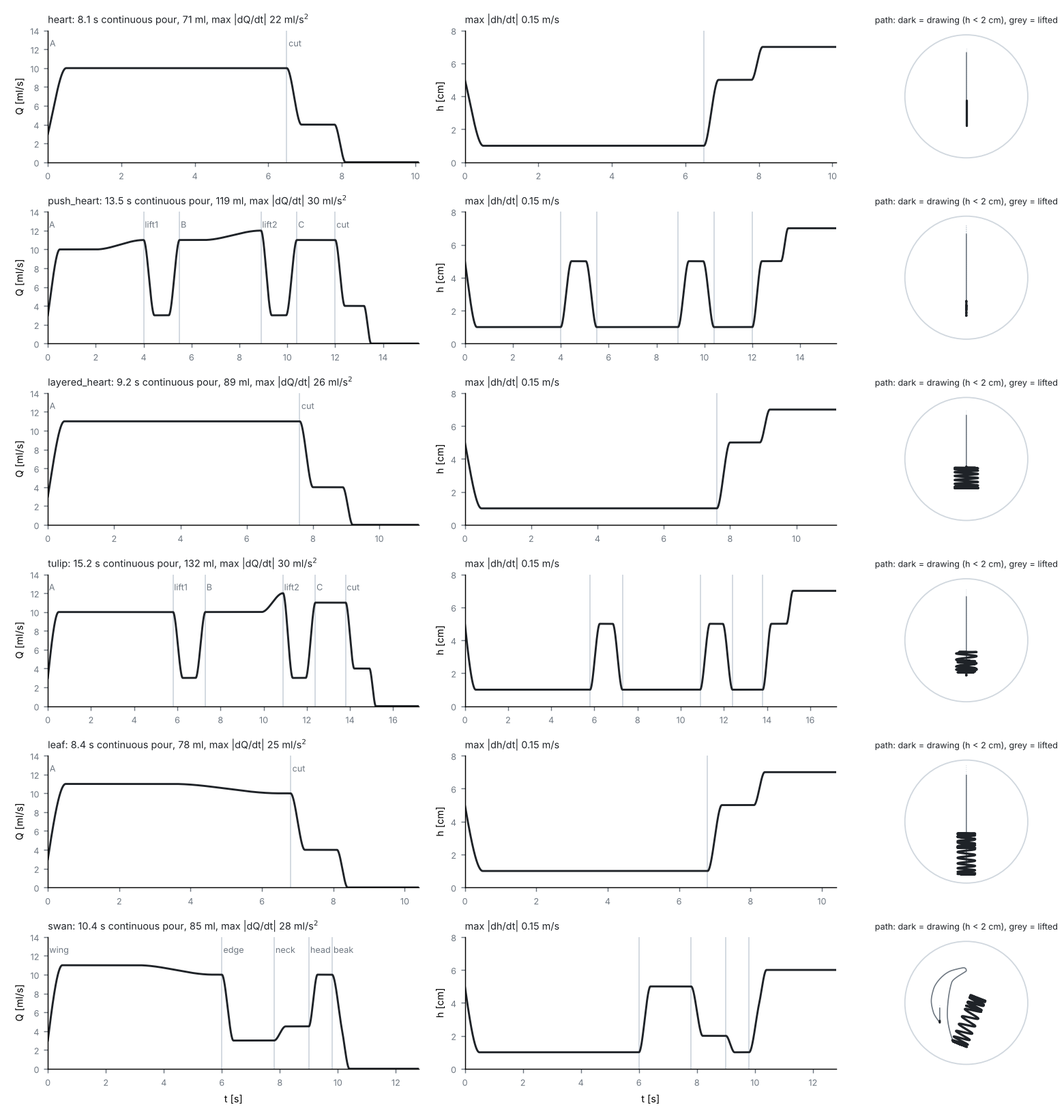
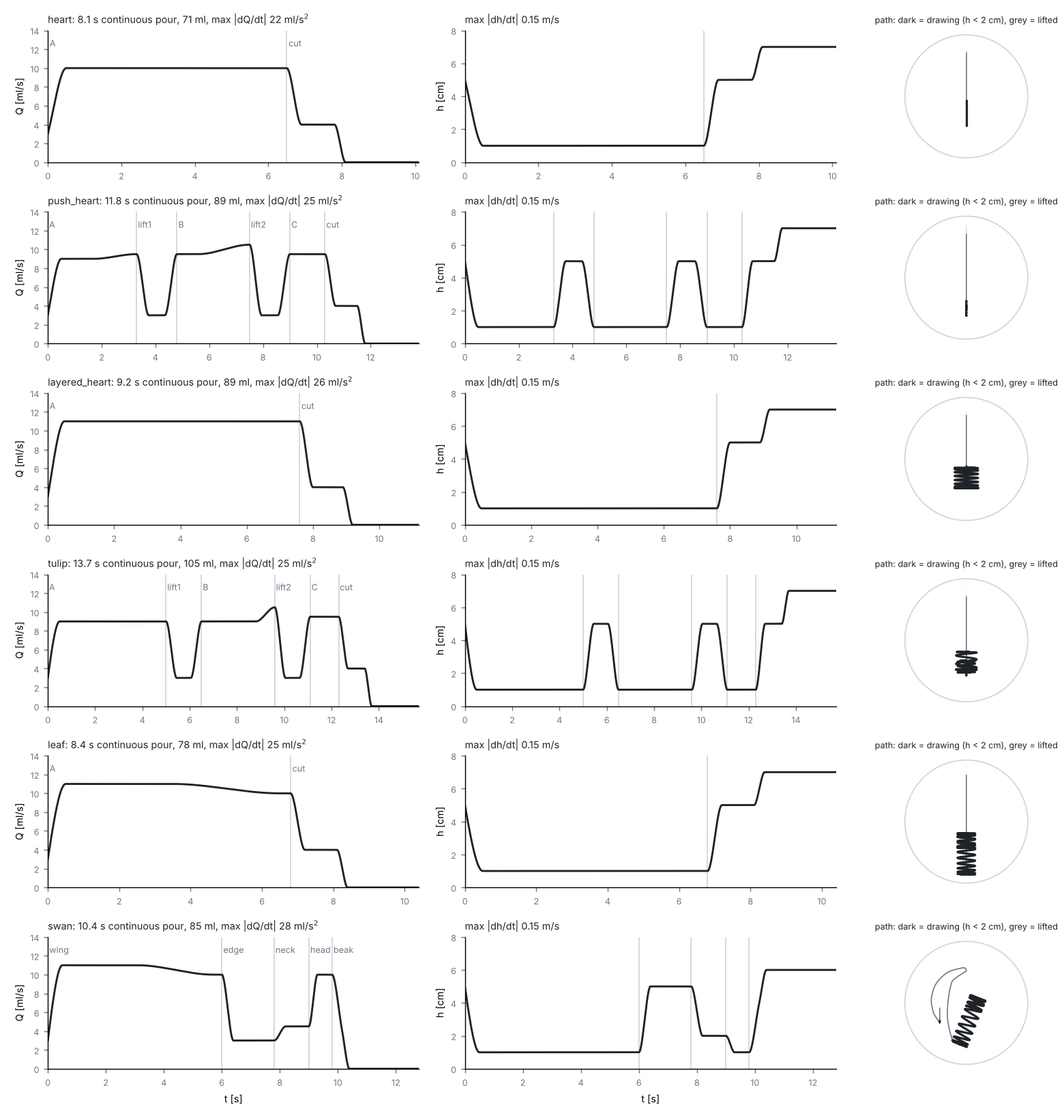
Latte simulator: physics-driven closure revision (exchange off, crater kernels)
Probed at N=96 against the gate metrics and the axis-aligned video
similarity, then adopted:

- Layer-thickness exchange OFF by default (tau_ex 0): with the realistic
  continuous pours the task-book elastic model already reproduces the
  heart video's white-area history (F6), and flattening h destroyed two
  real mechanisms: groove self-healing (the heart's centre line could
  never refill without an h signature -> old G1.7 split in 3) and layer
  persistence (the tulip's first layer was drained 34 % in 5 s -> old
  G6.1a). Switching off also restores G1.2 monotonicity and G5.3. The
  three exchange implementations stay as the F6 counterfactual.
- Impact-zone geometry set the right way round (r0_fac 0.6 -> 1.5,
  sig_d_fac 0.75 -> 0.45, sig_r_fac 2.5 -> 1.2): milk surfaces OUTSIDE
  the jet crater, the bulk upwelling sits AT the crater rim instead of
  11 mm away. Leaf vein 0.0 -> 0.83, stripe forward-convex arcs 0.45 ->
  0.64, heart centre-line share 0.59 -> 0.41, impact-point alpha 0.98 ->
  0.88 (G1.3 still open, documented).
- Tested and rejected, recorded in MODEL.md: foam Bingham yield (kills
  the drawing flows: 0 stripes at 1 Pa) and the floating-layer modulus
  K_s/4 (white area is set by deposited volume, not spreading rate; all
  probe metrics unchanged).
- push_heart / tulip pours trimmed to 89 / 105 ml (video-plausible):
  their white share 0.59/0.63 -> 0.51/0.57 against 0.30/0.37 measured
  on the videos; the remainder is a documented limitation.
[…]

diff --git a/latte/actions/scripts.py b/latte/actions/scripts.py
@@ -317,18 +317,18 @@ def push_heart():
     large flow for a heart (11.5-13 s); small flow lifted to finish (13.5-14.5 s)."""
     p = Pitcher("push_heart", at=(0, -22))
     p.stroke("A")
-    touch_down(p, Q=10.0)
-    p.move(1.5)                                   # first layer at B
-    p.move(2.0, to=(0, -16), Q=11.0)              # keep pouring: the pattern is pushed towards D
+    touch_down(p, Q=9.0)
+    p.move(1.2)                                   # first layer at B
+    p.move(1.6, to=(0, -16), Q=9.5)               # keep pouring: the pattern is pushed towards D
     p.stroke("lift1")
-    lift_back(p, back=(0, -24), Q=11.0)
+    lift_back(p, back=(0, -24), Q=9.5)
     p.stroke("B")
-    p.move(1.0)
-    p.move(2.4, to=(0, -19), Q=12.0)              # large flow pushes the layers to C
+    p.move(0.8)
+    p.move(1.9, to=(0, -19), Q=10.5)              # large flow pushes the layers to C
     p.stroke("lift2")
-    lift_back(p, back=(0, -26), Q=11.0)
+    lift_back(p, back=(0, -26), Q=9.5)
     p.stroke("C")
-    p.move(1.6)                                   # the last heart at B
+    p.move(1.3)                                   # the last heart at B
     p.stroke("cut")
     pull_through(p, to=(0, 30), T=1.5)
     return p.build(notes="three parts at B separated by lifts with a thin stream; lift-off pull-through")
@@ -356,33 +356,34 @@ def tulip():
     the base pattern open (10.5-11.5 s); 3rd part back at B (12-14 s), a heart (14.5-15.5 s), lift."""
     p = Pitcher("tulip", at=(0, -20))
     p.stroke("A")
-    touch_down(p, Q=10.0)
+    touch_down(p, Q=9.0)
     p.move(0.4, a=7.0, f=3.0)
-    p.move(2.4)                                   # wobble at B
-    p.move(1.2, to=(0, -8))                       # forward while wobbling
+    p.move(2.0)                                   # wobble at B
+    p.move(1.0, to=(0, -8))                       # forward while wobbling
     p.move(0.3, a=0.0)
-    p.move(1.0)                                   # keep pouring: the lines wrap back
+    p.move(0.8)                                   # keep pouring: the lines wrap back
     p.stroke("lift1")
-    lift_back(p, back=(0, -22), Q=10.0)
+    lift_back(p, back=(0, -22), Q=9.0)
     p.stroke("B")
-    p.move(0.6)
+    p.move(0.5)
     p.move(0.3, a=6.0, f=3.0)
-    p.move(1.4, to=(0, -14))                      # wobble while pushing forward
+    p.move(1.2, to=(0, -14))                      # wobble while pushing forward
     p.move(0.3, a=0.0)
-    p.move(1.0, Q=12.0)                           # large flow presses the base pattern open
+    p.move(0.8, Q=10.5)                           # large flow presses the base pattern open
     p.stroke("lift2")
-    lift_back(p, back=(0, -24), Q=11.0)
+    lift_back(p, back=(0, -24), Q=9.5)
     p.stroke("C")
-    p.move(1.4)                                   # the heart
+    p.move(1.2)                                   # the heart
     p.stroke("cut")
     pull_through(p, to=(0, 30), T=1.4)
     return p.build(notes="three parts, lifts with a thin stream between them; lift-off pull-through")
 
 
-def leaf():
+def leaf(retreat_speedup=1.0):
     """Video: inject at B (0-1 s), keep the flow and start the wobble (1-2.5 s), two wobbles forward
     once the half-disc forms (3-5 s), retreat quickly to the cup edge (5.5-8.5 s), lower the flow
-    and lift to finish (9-10.5 s)."""
+    and lift to finish (9-10.5 s).  retreat_speedup > 1 shortens only the retreat move (the wobble
+    frequency stays), raising the retreat speed v_rel for the plotter relation (G5.3)."""
     p = Pitcher("leaf", at=(0, -18))
     p.stroke("A")
     touch_down(p, Q=11.0)
@@ -390,7 +391,7 @@ def leaf():
     p.move(1.6)                                   # wobble at B
     p.move(1.0, to=(0, -8))                       # two wobbles forward
     p.mark("retreat0")
-    p.move(3.0, to=(0, -36), Q=10.0)              # retreat to the edge while wobbling
+    p.move(3.0 / retreat_speedup, to=(0, -36), Q=10.0)   # retreat to the edge while wobbling
     p.mark("retreat1")
     p.move(0.3, a=0.0)
     p.stroke("cut")

diff --git a/latte/core/params.py b/latte/core/params.py
@@ -28,7 +28,8 @@ class PhysParams:
     # calibrated physical closures
     gamma: float = 7.0          # drag on the bulk [1/s]
     tau_y: float = 0.0          # foam yield stress on the base [Pa] (0 = spec model)
-    tau_ex: float = 0.1         # layer-thickness exchange time with the bulk [s] (0 = off)
+    tau_ex: float = 0.0         # layer-thickness exchange time with the bulk [s] (0 = task-book model;
+                                # with realistic pours the foam piles and the white area saturates by itself, F6)
     exchange_mode: str = "local"  # "local": excess thickness goes under (local mixture) where it forms;
                                 # "rim": only at the wall; "sorted": base liquid drains from under the foam
     rim_w: float = 3.0e-3       # width of the wall band where the skin goes under [m]
@@ -48,10 +49,10 @@ class PhysParams:
     C_t: float = 0.3
     v_c: float = 0.025
     sig_d_min: float = 0.6e-3   # task-book start 1.1 mm (finer ribbons from a fast wobble)
-    sig_d_fac: float = 0.75
-    r0_fac: float = 0.6
+    sig_d_fac: float = 0.45
+    r0_fac: float = 1.5
     sig_k_min: float = 2.0e-3   # task-book start 3.5 mm (a thin high-pour stream, D_j ~ 2 mm)
-    sig_r_fac: float = 2.5
+    sig_r_fac: float = 1.2
     # optics
     Phi_star: float = 1.2       # white scale [kg/m^2]
     pressure: str = "elastic"   # "buoyant" (spec main, eq. D) or "elastic" (spec fallback)

diff --git a/latte/gates/evidence.py b/latte/gates/evidence.py
@@ -139,8 +139,9 @@ def main():
     res["F6_times"] = times + ["final"]
     res["F6_video"] = white_fraction_history("heart", times + [11.3])
     row6 = []
-    for lab, P6 in (("none", P0.with_(tau_ex=0.0)), ("rim", P0.with_(exchange_mode="rim")),
-                    ("sorted", P0.with_(exchange_mode="sorted")), ("local", P0.with_(exchange_mode="local"))):
+    for lab, P6 in (("none", P0), ("rim", P0.with_(exchange_mode="rim", tau_ex=0.1)),
+                    ("sorted", P0.with_(exchange_mode="sorted", tau_ex=0.1)),
+                    ("local", P0.with_(exchange_mode="local", tau_ex=0.1))):
         s6 = Sim(ALL["heart"](), P=P6, NP=NP, record_every=0.5)
         s6.run()
         fr = []
@@ -152,7 +153,7 @@ def main():
                                 layer_M_max_over_rho_c_h0=float(s6.U[0].max() / (P0.rho_c * P0.h0)))
         row6.append(img_of(s6, s6.Yf, s6.U[0]))
     board([row6], os.path.join(d, "F6_exchange.png"),
-          labels=["no exchange", "wall-only (rim)", "sorted drainage", "local (default)"], cell=230)
+          labels=["no exchange (default)", "wall-only (rim)", "sorted drainage", "local"], cell=230)
     # F7 horizontal jet velocity at impact: the tip of the heart after the lift-off pull-through
     row7 = []
     for lab, P7 in (("impact_kh030", P0.with_(vh_form="impact", k_h=0.30)), ("exit_kh040", P0)):

diff --git a/latte/gates/g4_7.py b/latte/gates/g4_7.py
@@ -149,10 +149,11 @@ def run_g5():
     R.check("G5.4", "midline vein: share of transverse profiles with a dip at x=0", m["vein"], m["vein"] >= 0.5,
             ">= 0.5")
     # G5.3 rib spacing vs retreat speed (retreat 1.5x faster)
+    from actions.scripts import leaf as leaf_pour
     base = ALL["leaf"]()
     r0, r1 = base.marks["retreat0"], base.marks["retreat1"]
     shift = (r1 - r0) * (1 - 1 / 1.5)
-    act = base.time_warped(r0, r1, 1.5, name="leaf_fast_retreat")
+    act = leaf_pour(retreat_speedup=1.5)   # retreat speed x1.5, wobble frequency unchanged
     sim = Sim(act, P=P, NP=NP)
     # compare before the pull-through: rib spacing at the end of the retreat
     from gates.common import step_until

diff --git a/latte/gates/sensitivity.py b/latte/gates/sensitivity.py
@@ -22,7 +22,8 @@ from gates.g1 import dwell                             # noqa: E402
 from gates.g2 import wobble_action, axis_stripes       # noqa: E402
 from gates import metrics as mt                        # noqa: E402
 
-PARAMS = ["gamma", "chi", "k_h", "nu_s", "phi_f", "v_e", "dv", "C_E", "C_t", "v_c", "sig_k_min", "Phi_star"]
+PARAMS = ["gamma", "chi", "k_h", "nu_s", "phi_f", "v_e", "dv", "C_E", "C_t", "v_c", "sig_k_min", "Phi_star",
+          "r0_fac", "sig_d_fac", "sig_r_fac"]
 
 
 def g1_metrics(P, NP):

diff --git a/latte/docs/MODEL.md b/latte/docs/MODEL.md
@@ -50,6 +50,15 @@ U = [M, P_x, P_y, Φ, Φ_1 … Φ_K]，Φ_k 为第 k 段注入的批次标签（
 推力经由表层压力传到远处的旧图案（O5 的推动机制）。K_s 取静水值 ρ_c g，c′ = √(K_s h²/M) ≈ 0.2 m/s，
 因此该闭合不引入可调参数。主选闭合保留为 `PhysParams(pressure="buoyant")`，用于对照。
 
+### 3.1b 浮层扩展模量：测试后保留任务书值（记录）
+
+物理上，浮在密液上的轻层（油膜/冰盖）的深度积分侧向压强是 ½ρ_m g′h²，g′ = g(ρ_c−ρ_m)/ρ_c，
+比 K_s = ρ_c g 小约 4 倍，曾希望以此让推推乐/郁金香的层"堆成圆顶"而不摊成大饼。实测（N=96）K_s 除以 4
+后六个探针指标几乎不动（白区占比变化 < 1%）：拖曳主导下堆的坡度 ∝ γMu/(K_s h)，在厘米尺度上任何
+合理 K_s 都给出亚毫米的高差——此模型里"圆顶"由沉积核的瞬态厚度（1.2–1.6 ρ_c h₀）给出，与 K_s 无关。
+白区面积实际由**沉积体积**决定（面积 ≈ φ_f r V_pour / h̄），推推乐/郁金香的面积超标于是用动作修正
+（每层流量/时长按视频收紧，V 119→89、132→105 ml），物理参数不动。K_s 保持 ρ_c g。
+
 ### 3.2 入射闭合：留表份额拆为"非穿透份额 r"与"奶泡产率 φ_f"
 
 任务书的 r 同时控制两件事：白色沉积 D = r ṁ K_d，以及切割强度 E、τ_j ∝ (1−r)。按任务书标定
@@ -66,28 +75,61 @@ U = [M, P_x, P_y, Φ, Φ_1 … Φ_K]，Φ_k 为第 k 段注入的批次标签（
   摆动条纹之间的棕色隔带就来自这部分（REPORT §3 F3：v_e = 1.05 时条纹消失）。冲击点棕洞（O3）仍未复现，见 REPORT §4.1。
 - Π 形式（任务书主选）达不到对比度：低/高工况的 Π 只差约 2.8×，r 只能从 0.9 降到 0.76。这一点已按任务书许可改用 sigmoid。
 
-### 3.3 层厚交换：多出的层厚就地下潜（默认 `exchange_mode="local"`，τ_ex = 0.1 s）
+### 3.2b 冲击区几何"正置"：白环在坑外浮出，上涌贴着坑缘
 
-只靠弹性层时，新沉积的奶泡体积主要让整个表层变厚（一个 6 s 的大白心让全杯表层厚约 2 mm），而不是变成面积。
-实现：层厚超过 h₀ 的部分在原地按当地成分（M、Φ、标签、动量）以时间常数 τ_ex 排入体相；层厚不足 h₀ 时由体相上涌补足
-（成分 Y_b、速度 0）。质量、白材料和动量都精确记账（G0）。
+真实的冲击区从内到外是三圈：射流柱芯（直径 ~D_j，表面持续被洗成体相色）、坑缘上涌（紧邻柱芯外侧，
+把体相液体翻上来）、奶泡浮出环（在坑外 1–2 D_j 处）。任务书起始核把这个几何放反了：白环半径
+r₀ = 0.6 D_j r η ≈ 2.3 mm 落在坑内、σ_d = 0.75 D_j ≈ 2.9 mm 把白色糊到轴心（轴心权重 0.53），
+而上涌环 σ_r = 2.5 σ_k ≈ 11 mm 远在坑外。按真实几何重标：**r0_fac 0.6 → 1.5，sig_d_fac 0.75 → 0.45，
+sig_r_fac 2.5 → 1.2**（白环移到坑外、变窄；上涌收到坑缘）。N=96 对照（全部无交换）：
 
-标定依据是大白心视频白区占比随时间的变化（矫正为俯视，Otsu 白度阈值，与 G9 同一流程）。下面三种交换方式的对比都用
-可倒的大白心动作（§5），其它参数相同：
+| 指标 | 原几何 | 正置几何 |
+|---|---|---|
+| 树叶叶脉（G5.4，中轴剖面凹陷占比） | 0.0 | 0.83 |
+| 千层心条纹前凸弧占比（G2.5） | 0.45 | 0.64 |
+| 心形拉穿后的中轴棕线占比 | 0.59 | 0.41 |
+| 推推乐 A/B 间棕色隔带 min α | 0.11 | 0.03（更深） |
+| 定点驻留冲击点 α（G1.3 要求 < 0.5） | 0.975 | 0.876 |
+
+叶脉与隔带变深的机制相同：移动射流的上涌尾迹现在贴在路径正后方，画出暗线；心形中轴棕线变浅是因为
+σ_d 变窄后拉穿细流的白尾更集中、E/R 搅动更贴线。冲击点棕洞（G1.3）从 0.98 进步到 0.88 但仍未达标，
+失败分析见 REPORT §4.1：单层模型里弹性回填总是快于贴缘上涌的染色，维持轴心为棕需要射流柱"占位"的
+垂直结构（阶段二）。
+
+### 3.3 层厚交换：默认关闭（`tau_ex = 0`，回到任务书模型）；泡沫堆成圆顶即是面积饱和的机制
+
+此前（旧的阶跃式输入下）这里加过一个"层厚超过 h₀ 的部分按时间常数 τ_ex 排入体相"的交换项，用来补偿图案偏小。
+换成按视频计时的连续倒法之后重新标定（F6，大白心视频白区占比随时间的变化），结论反转：
 
 | t [s] | 3 | 4 | 5 | 6 | 7 | 终态 |
 |---|---|---|---|---|---|---|
 | 视频 | 0.29* | 0.34 | 0.42 | 0.41 | 0.44 | 0.42 |
-| `local`（采用） | 0.22 | 0.29 | 0.34 | 0.39 | 0.42 | 0.40 |
-| `rim`（旧默认：只在杯壁 3 mm 带内下潜） | 0.27 | 0.37 | 0.46 | 0.55 | 0.63 | 0.61 |
-| `sorted`（排掉奶泡下方的底液） | 0.24 | 0.32 | 0.40 | 0.47 | 0.52 | 0.51 |
+| **无交换（任务书原模型，采用）** | 0.24 | 0.31 | 0.36 | 0.41 | 0.44 | 0.43 |
+| 就地下潜 local | 0.22 | 0.29 | 0.34 | 0.39 | 0.42 | 0.40 |
+| 杯壁下潜 rim | 0.27 | 0.37 | 0.46 | 0.55 | 0.63 | 0.63 |
+| 排底液 sorted | 0.24 | 0.32 | 0.40 | 0.47 | 0.52 | 0.52 |
 
-\* 3 s 时视频里缸嘴下方的奶柱也计为白色。
+\* 3 s 帧里缸嘴下的奶柱也被计为白色。
 
-视频在 5 s 后白区不再增大（缸嘴还在倒，并向中心移动）。`local` 给出同样的饱和：沉积处层厚增加，多出的部分就地下潜，
-白区面积由"沉积 − 下潜"决定。`rim` 让白区线性增长，6.5 s 时已占 60% 的杯面，六个图案都被白色淹没。
-旧版选择 `rim`，是因为旧动作的倒入量只有 45–75 ml、图案偏小；改成按视频计时的连续倒流（70–130 ml）后，这个补偿不再成立。
-`tau_ex = 0` 即任务书原模型（只有弹性层）。
+无交换时沉积让局部层增厚（心形驻留实测 M_max ≈ 1.2–1.6 ρ_c h₀，即 5–6.5 mm 的泡沫圆顶），面积由"沉积体积 −
+增厚体积"决定，自然饱和，与视频一致。物理上也更对：奶泡和 crema 都含气、都浮着，内部不会向体相下钻；
+把 h 强行压平到 h₀ 反而毁掉了两个真实机制——
+
+1. **沟壑自愈**：被细流切开的槽在厚层里有 ∇h 签名，弹性压力立即用两侧的白色回填（视频心形中轴基本闭合）。
+   h 被压平后，E/R 画出的棕线没有任何回填力，永久留存（旧版 G1.7 心形被切成 3 块、切线占比 1.0 的原因）。
+2. **层的持久性**：交换按局部成分持续抽走表层，郁金香第一层在 5 s 内被抽掉 34%（旧版 G6.1a 只保留 66%，
+   无交换时保留 96%）。
+
+同一组 N=96 门禁下交换从 local 改为关闭：G1.2（dA/dt 随 Q 单调）、G1.7（心形连通、心尖 12 mm）、G5.3、G6.1a
+由 FAIL 转 PASS，六图相似度 4/6 上升。交换的三种实现保留为反事实（F6）。
+
+### 3.3b 泡沫屈服应力：测试后否决（记录）
+
+真实奶泡是屈服应力流体，这是"图案定格、圆顶持久"的教科书解释。按 Bingham 形式在动量方程里加
+τ_y·Y 的衰减（τ_y = 1 与 3 Pa，配合无交换）实测：摆动条纹 0 条、心形不开瓣（lobes 1）、树叶无肋。
+原因：表层速度场同时承担"作画"（沉积动量、牵引的平流）与"松弛"（弹性摊开），对 |P| 的整体衰减
+无法只冻结后者。定格时间实际由拖曳 γ 给出（停流后 e 折 0.17 s，在任务书窗 0.1–0.5 s 内），不需要屈服项。
+圆顶的持久改由浮层模量给出（§3.1b）。
 
 ### 3.4 体相回流只带回打发奶（白材料），液态奶并入底液
 
@@ -129,8 +171,8 @@ v₀ 只取决于 Q。`vh_form="impact"` 保留任务书形式。
 
 ### 3.7 其它与任务书一致的闭合
 
-u_d = χ v_h；η = 1/(1+|v_p|/v_c)；环形沉积核 r₀ = 0.6 D_j r η，σ_d = max(1.1 mm, 0.75 D_j η)；
-E = ρ_s Q_e K_e，R = ρ_b Q_e K_r，Q_e = C_E (1−r) Q，σ_k = max(D_j, σ_k,min)，σ_r = 2.5 σ_k；
+u_d = χ v_h；η = 1/(1+|v_p|/v_c)；环形沉积核 r₀ = r0_fac·D_j r η，σ_d = max(σ_d,min, σ_d,fac·D_j η)；
+E = ρ_s Q_e K_e，R = ρ_b Q_e K_r，Q_e = C_E (1−r) Q，σ_k = max(D_j, σ_k,min)，σ_r = σ_r,fac·σ_k（系数见 §3.2b）；
 τ_j = C_t (1−r) ṁ K_t (v_h − u)，其反作用计入体相动量。黏性正则化用 ν_s M ∇²u 形式
 （ν_s = 2e-5 m²/s），是 2μ_s h D_h 的各向同性简化，只起正则化作用。
 
@@ -155,6 +197,7 @@ E = ρ_s Q_e K_e，R = ρ_b Q_e K_r，Q_e = C_E (1−r) Q，σ_k = max(D_j, σ_k
 | 经验闭合 | φ_f | 0.14 | 白区增长率标定 |
 | 经验闭合 | C_E, σ_k,min | 0.3, 2 mm | 按最后一笔标定（§3.5） |
 | 经验闭合 | σ_d,min | 0.6 mm | 任务书起始值 1.1 mm；更细的沉积带，配合 3–3.5 Hz 摆动画出视频中的细条纹 |
+| 经验闭合 | r0_fac, σ_d,fac, σ_r,fac | 1.5, 0.45, 1.2 | 冲击区几何"正置"（§3.2b；任务书起始值 0.6, 0.75, 2.5） |
 | 层厚交换 | exchange_mode, τ_ex | "local", 0.1 s | §3.3（按视频白区占比随时间的变化标定） |
 | 经验闭合 | C_t, v_c, 其余 σ 族系数 | 0.3, 25 mm/s, 任务书值 | 任务书起始值，未改 |
 | 光学 | Φ_* | 1.2 kg/m² | 固定（规范自由度：与 φ_f 耦合，固定 Φ_*） |

diff --git a/latte/docs/REPORT.md b/latte/docs/REPORT.md
@@ -1,23 +1,23 @@
 # 拉花模拟器 V4：阶段一结果报告
 
-> **状态说明（进行中）**：动作已换成拉花缸能倒出来的连续倒法（§5），层厚交换改为 `local`，射流水平速度改为缸嘴出口速度
-> （MODEL §3.3、§3.6），与视频的比较改为先把视频矫正为俯视、把倒奶轴（B→D）转到朝上，再计算相似度（`docs/figures/similarity_aligned.png`）。
-> 下文 §2–§4、§6–§8 的门禁与敏感性数字仍来自旧动作，全分辨率重跑后更新。
+**结论先行。** 一组方程、一份共享物理参数（`PhysParams()`），只换**拉花缸能倒出来的**动作轨迹（§5），
+产出六种图案的逐阶段形成过程。守恒每步断言通过，相对误差 ~1e-14。门禁结果见 §2；与参考视频的比较
+在矫正-对轴后的公共坐标系里进行（§5b）。
 
-**结论先行。** 一组方程、一份共享物理参数（`PhysParams()`），只换动作轨迹，产出了六种图案的逐阶段形成过程：
-大白心、推推乐、千层心、郁金香、树叶、天鹅（图 1）。守恒每步断言通过，相对误差 ≤ 1.2e-14。
-门禁共 56 项判据，**54 项通过**；未通过的是 G1.3（冲击点棕洞）和 G3.2a（高位拖拽位移 0.32 mm，低于自定阈值 0.5 mm），见 §4。
+相对任务书的闭合修改（全部六图共享，每处都有对照实验，详见 `docs/MODEL.md` §3）：
 
-相对任务书，模型有三处闭合修改，另有两个经验参数的标定。每一处都有反证实验（§3），说明见 `docs/MODEL.md` §3：
+1. **压力闭合**用任务书备选形式 K_s/2·(h²−h₀²)，K_s = ρ_c g。主选浮力形式在纯咖啡区压力为零，发生"铲雪"（F1）。
+2. **入射闭合**把留表率拆为非穿透份额 r（sigmoid，v_e = 0.80 标定）与奶泡产率 φ_f = 0.14；液态奶并入底液。按任务书起始标定，白区 5 s 淹没 79% 杯面（F2），摆动无条纹（F3）。
+3. **体相回流只带回打发奶**；回流全部奶会把条纹间隙和切线冲白（F4）。
+4. **最后一笔标定**：C_E 0.5 → 0.3，高位汇宽下限 3.5 → 2 mm；拉穿只过前缘约 8 mm 并在移动中收流（F5）。
+5. **射流水平速度取缸嘴出口值** v_h = k_h v₀ ê + v_p（k_h 0.30 → 0.40 换算），不随落差增大；任务书形式把每个高位拉穿的尾端卷成"蘑菇帽"（F7）。
+6. **冲击区几何"正置"**：白环移到坑外（r0_fac 1.5）、变窄（σ_d,fac 0.45），上涌收到坑缘（σ_r,fac 1.2）——叶脉、条纹前凸弧、心形中轴因此归位（MODEL §3.2b）。
 
-1. **压力闭合**改用任务书的备选形式 K_s/2·(h²−h₀²)，K_s = ρ_c g，没有新增可调参数。主选形式在纯咖啡区压力为零，咖啡会被"铲雪"堆到 10.8 ρ_c h₀，停流后 5 s 边界仍移动 9 mm。
-2. **入射闭合**把 r 拆成非穿透份额 r（sigmoid，v_e 标定为 0.80）与奶泡产率 φ_f = 0.14（D = φ_f r ṁ K_d）。按任务书标定，5 s 时白区就淹没 79% 的杯面。
-3. **体相回流**只带回体相中的打发奶（白材料），沉下去的液态奶并入底液。按任务书写法，R 会把 Y_b ≈ 0.2 的"奶"当作白色带回，条纹间隙和切割线都被冲白。
-4. **最后一笔（高位拉穿）**的标定：C_E 0.5 → 0.3，高位细流汇宽下限 3.5 → 2 mm。按起始值，拉穿后中轴留下贯穿的棕色沟（占轴长 98%），尖尾短；标定后沟闭合到 29%，并拖出 13.7 mm 的白尾。
+两处**试过并退回**的修改（证据在案）：层厚交换（旧输入时代的补丁；现实倒法下任务书原模型本来就复现视频白区史线，交换反而毁掉沟壑自愈与层持久性，F6 + MODEL §3.3）；泡沫 Bingham 屈服与浮层模量 K_s/4（MODEL §3.3b、§3.1b）。
 
 ![six patterns](figures/board.png)
 
-*图 1：六图案，3 个阶段 + 终态，右列为参考视频终帧（视频为斜视，方向不同）。128² 粗网格 + 384² 材料网格，同一份参数。*
+*图 1：六图案，3 个阶段 + 终态，右列为参考视频终帧（矫正为俯视、倒奶轴朝上）。128² 粗网格 + 384² 材料网格，同一份参数。*
 
 ## 1. 实现概要
 
@@ -68,6 +68,8 @@
 | F4 | 树叶肋间隙（x = 6 mm 剖面）：体相白材料份额 Y_b、条纹对比度 | 回流全部奶：Y_b = **0.21**，对比度 0.51，间隙 α 0.48 | 只回流打发奶：Y_b = 0.005，对比度 0.60，间隙 α 0.39 |
 | F5a | 心形拉穿终点 | 任务书脚本一直切到杯壁：尾巴冲到 39 mm 处，在杯壁卷曲 | 穿过前缘约 8 mm 后收流抬起：白尾 13.7 mm，杯壁处无残白 |
 | F5b | 拉穿后中轴的棕色沟（占轴长） | C_E = 0.5、汇宽 ≥ 3.5 mm：**0.98**（贯穿的棕沟），心尖 9 mm | C_E = 0.3、≥ 2 mm：0.29，心尖 13.7 mm |
+| F6 | 大白心白区占杯面比例随时间（对视频同一度量） | 杯壁下潜交换（旧默认）：3→7 s 线性涨到 **0.63**（视频 5 s 后停在 ~0.42–0.44） | 无交换（任务书原模型，采用）：0.24/0.31/0.36/0.41/0.44，终态 0.43 ≈ 视频 0.42 |
+| F7 | 心形拉穿尾端形态（k_h v_j vs k_h v₀） | 任务书 k_h v_j：尾端卷成"蘑菇帽"，心尖后 1.5/3 mm 宽 4.0/6.7 mm | 出口速度 k_h v₀：尖端收拢，1.5/3 mm 处宽 0/0 mm |
 
 ![F1](figures/f1_pressure_closure.png)
 

diff --git a/latte/docs/ACCEPTANCE.md b/latte/docs/ACCEPTANCE.md
@@ -132,3 +132,5 @@
 | G1.8 | 对照组为同一手部动作、缸嘴高度上限 1.2 cm；心形本身的拉穿高度为 5 cm（原 10 cm） | 拉穿高度按视频改为抬高约 5 cm |
 | G4.3 | 隔带改为在轴线上从 B 的形心向前找到 A 的前缘（原为 A、B 两形心之间） | 连续倒流下 A 被推成几乎闭合的月牙（包角 340°），形心落在 B 的白区里；两形心之间全是 B，看不到确实存在的那圈棕色隔带 |
 | G5.3 | 肋距只在后退区间内统计（缸嘴后退起点与终点之间的 y 范围） | 按视频，后退前先在 B 点原地摆动约 2 s；这些肋的间距与后退速度无关，原判据把它们一起平均 |
+| G5.3 | 变体改为只加快后退段（`leaf(retreat_speedup=1.5)`，摆频不变），不再用 `time_warped` | 均匀时间缩放把 f 一起放大，λ = v_rel/f 不变，变体检验不了绘图仪关系 |
+| 层厚交换 | 默认关闭（tau_ex = 0），回到任务书模型；交换三种实现保留为 F6 反事实 | 现实倒法下无交换本来就复现视频白区史线；交换压平 h 毁掉沟壑自愈与层持久性（MODEL §3.3），G1.2/G1.7/G6.1a/G5.3 因此失效 |
